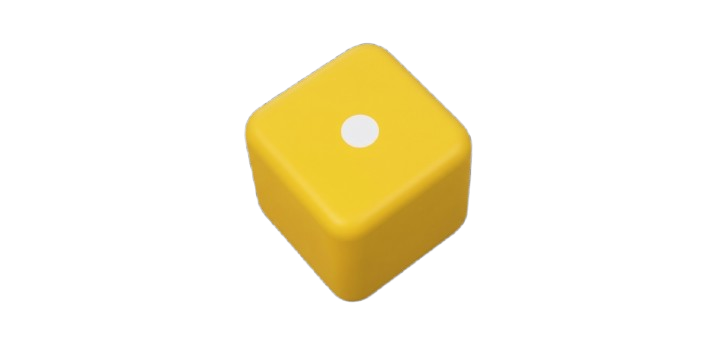
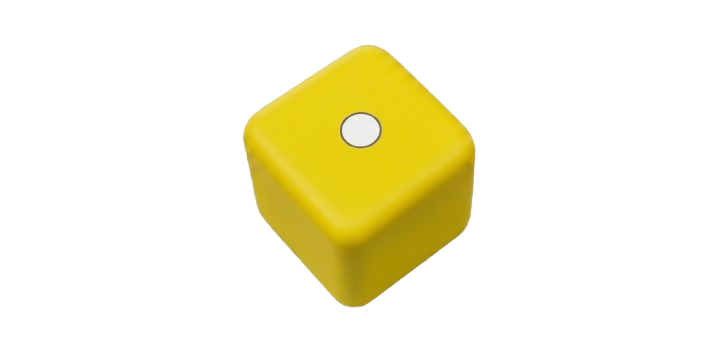
fix: dice animation load

Changed region(s): [[0.3361, 0.1156, 0.6722, 0.896]]

diff --git a/src/components/HowItWorksSection.vue b/src/components/HowItWorksSection.vue
@@ -3,29 +3,65 @@ import { ref, onMounted, onBeforeUnmount } from 'vue'
 
 const sectionRef = ref<HTMLElement | null>(null)
 const isVisible = ref(false)
+const colorPattern = ref<'blue-first' | 'yellow-first'>('blue-first')
 
 let observer: IntersectionObserver | null = null
 
 onMounted(() => {
+  // Selang-seling warna dadu setiap kali refresh menggunakan sessionStorage
+  const lastPattern = sessionStorage.getItem('kei_dice_pattern')
+  if (lastPattern === 'blue-first') {
+    colorPattern.value = 'yellow-first'
+  } else {
+    colorPattern.value = 'blue-first'
+  }
+  sessionStorage.setItem('kei_dice_pattern', colorPattern.value)
+
   observer = new IntersectionObserver(
     (entries) => {
       if (entries[0]?.isIntersecting) {
         isVisible.value = true
-        // Optional: stop observing once animated
         if (sectionRef.value) observer?.unobserve(sectionRef.value)
       }
     },
-    { threshold: 0.2 } // Mulai animasi saat 20% bagian terlihat
+    { threshold: 0.1 }
   )
 
   if (sectionRef.value) {
-    observer.observe(sectionRef.value)
+    // Jika elemen sudah masuk viewport atau IntersectionObserver belum/tidak menembus kondisi awal,
+    // periksa langsung menggunakan boundingClientRect atau set fallback
+    const rect = sectionRef.value.getBoundingClientRect()
+    if (rect.top < window.innerHeight && rect.bottom >= 0) {
+      isVisible.value = true
+    } else {
+      observer.observe(sectionRef.value)
+    }
+  } else {
+    isVisible.value = true
   }
 })
 
 onBeforeUnmount(() => {
   if (observer) observer.disconnect()
 })
+
+const getDiceSrc = (step: number) => {
+  if (colorPattern.value === 'blue-first') {
+    // Pola A: Step 1 Biru, Step 2 Kuning, Step 3 Biru
+    return step === 2
+      ? '/images/dadu/dadu_2_kuning-bg.png'
+      : step === 1
+        ? '/images/dadu/dadu_1_biru-bg.png'
+        : '/images/dadu/dadu_3_biru-bg.png'
+  } else {
+    // Pola B: Step 1 Kuning, Step 2 Biru, Step 3 Kuning
+    return step === 2
+      ? '/images/dadu/dadu_2_biru-bg.png'
+      : step === 1
+        ? '/images/dadu/dadu_1_kuning-bg.png'
+        : '/images/dadu/dadu_3_kuning-bg.png'
+  }
+}
 </script>
 
 <template>
@@ -57,7 +93,7 @@ onBeforeUnmount(() => {
           <!-- Mobile Header (Visible only on mobile) -->
           <div class="flex md:hidden items-center gap-3 w-full mb-1">
             <div class="w-[60px] h-[60px] flex-shrink-0 flex items-center justify-center">
-              <img src="/images/dadu/dadu_1_biru-bg.png" class="step-dice w-full h-full object-contain scale-[1.8] drop-shadow-md" alt="Langkah 1" />
+              <img :src="getDiceSrc(1)" class="step-dice w-full h-full object-contain scale-[1.8] drop-shadow-md" alt="Langkah 1" />
             </div>
             <h3 class="step-text text-xl font-bold text-[#1E3A8A] leading-tight">Buat Profil & Daftarkan Karyamu</h3>
           </div>
@@ -73,7 +109,7 @@ onBeforeUnmount(() => {
           <!-- Desktop Dice (Col 2) -->
           <div class="hidden md:flex order-1 md:order-2 justify-start">
             <div class="relative w-[160px] h-[160px] flex items-center justify-center">
-               <img src="/images/dadu/dadu_1_biru-bg.png" class="step-dice w-full h-full object-contain scale-[1.5] drop-shadow-xl" alt="1" />
+               <img :src="getDiceSrc(1)" class="step-dice w-full h-full object-contain scale-[1.5] drop-shadow-xl" alt="1" />
             </div>
           </div>
         </div>
@@ -83,7 +119,7 @@ onBeforeUnmount(() => {
           <!-- Mobile Header -->
           <div class="flex md:hidden items-center gap-3 w-full mb-1">
             <div class="w-[60px] h-[60px] flex-shrink-0 flex items-center justify-center">
-              <img src="/images/dadu/dadu_2_kuning-bg.png" class="step-dice w-full h-full object-contain scale-[1.8] drop-shadow-md" alt="Langkah 2" />
+              <img :src="getDiceSrc(2)" class="step-dice w-full h-full object-contain scale-[1.8] drop-shadow-md" alt="Langkah 2" />
             </div>
             <h3 class="step-text text-xl font-bold text-[#1E3A8A] leading-tight">Asah Skill & Ikuti Event</h3>
           </div>
@@ -91,7 +127,7 @@ onBeforeUnmount(() => {
           <!-- Desktop Dice (Col 1) -->
           <div class="hidden md:flex order-1 justify-end">
             <div class="relative w-[160px] h-[160px] flex items-center justify-center">
-               <img src="/images/dadu/dadu_2_kuning-bg.png" class="step-dice w-full h-full object-contain scale-[1.5] drop-shadow-xl" alt="2" />
+               <img :src="getDiceSrc(2)" class="step-dice w-full h-full object-contain scale-[1.5] drop-shadow-xl" alt="2" />
             </div>
           </div>
 
@@ -109,7 +145,7 @@ onBeforeUnmount(() => {
           <!-- Mobile Header -->
           <div class="flex md:hidden items-center gap-3 w-full mb-1">
             <div class="w-[60px] h-[60px] flex-shrink-0 flex items-center justify-center">
-              <img src="/images/dadu/dadu_3_biru-bg.png" class="step-dice w-full h-full object-contain scale-[1.8] drop-shadow-md" alt="Langkah 3" />
+              <img :src="getDiceSrc(3)" class="step-dice w-full h-full object-contain scale-[1.8] drop-shadow-md" alt="Langkah 3" />
             </div>
             <h3 class="step-text text-xl font-bold text-[#1E3A8A] leading-tight">Hubungkan ke Mitra & Monetisasi</h3>
           </div>
@@ -125,7 +161,7 @@ onBeforeUnmount(() => {
           <!-- Desktop Dice (Col 2) -->
           <div class="hidden md:flex order-1 md:order-2 justify-start">
             <div class="relative w-[160px] h-[160px] flex items-center justify-center">
-               <img src="/images/dadu/dadu_3_biru-bg.png" class="step-dice w-full h-full object-contain scale-[1.5] drop-shadow-xl" alt="3" />
+               <img :src="getDiceSrc(3)" class="step-dice w-full h-full object-contain scale-[1.5] drop-shadow-xl" alt="3" />
             </div>
           </div>
         </div>
